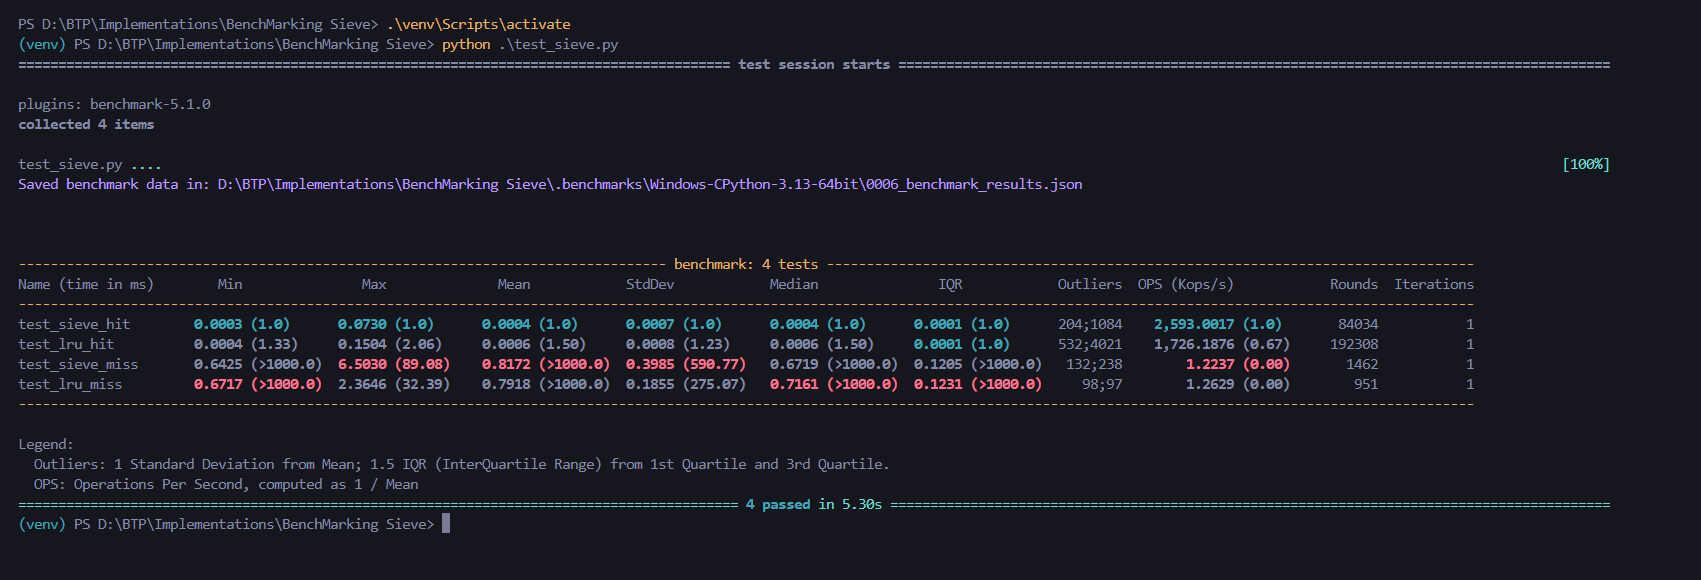
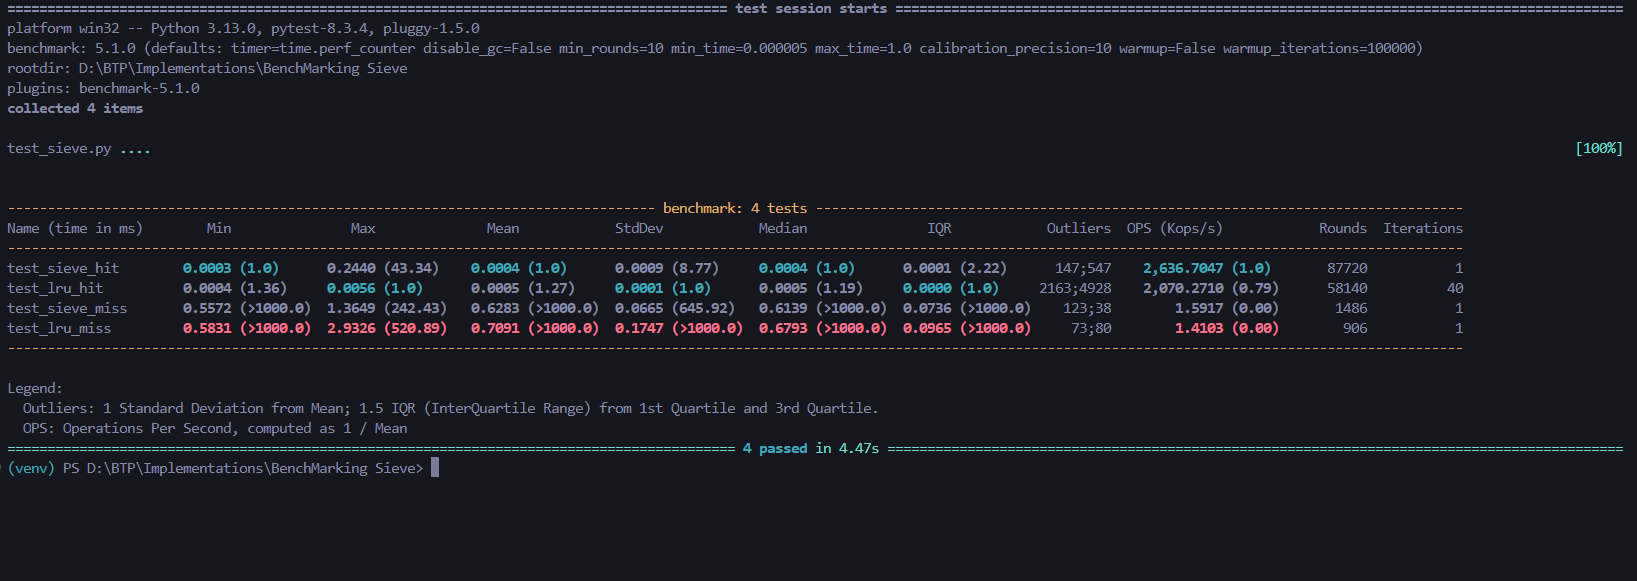
Update-Added Detailed Report

diff --git a/Readme.md b/Readme.md
@@ -9,81 +9,97 @@ This implementation introduces the SIEVE cache eviction algorithm alongside a cu
 2. **Quick Demotion:** Items can be efficiently evicted when needed.
 3. **Thread-Safety:** SIEVE does not require locks for cache hits, unlike LRU, resulting in increased throughput.
 
-### Benchmark Output
+
+### Benchmarking Overview in the Code
+
+1. **Benchmark Scenarios**:
+   - **Cache Hit**: Tests how quickly the cache returns a value for a key that is already stored in the cache.
+     - Functions:
+       - `sieve_cache_test_hit()`
+       - `lru_cache_test_hit()`
+   - **Cache Miss**: Tests how the cache handles the addition of new values (when a key is not found in the cache).
+     - Functions:
+       - `sieve_cache_test_miss()`
+       - `lru_cache_test_miss()`
+
+2. **Using `benchmark`**:
+   - `benchmark` is a fixture provided by `pytest-benchmark`. It runs the specified test function multiple times and measures:
+     - Execution time.
+     - Statistical metrics like mean, median, and standard deviation of runtimes.
+   - The results are saved for analysis using `--benchmark-save=benchmark_results`.
+
+3. **How It Works**:
+   - The `benchmark` fixture runs the corresponding test function multiple times under controlled conditions.
+   - For example, in `test_sieve_hit`, it repeatedly calls `sieve_cache_test_hit`, which simply retrieves a cached value.
+   - Similarly, `test_sieve_miss` tests the behavior when many new values are added to the cache (forcing evictions and insertions).
+
+---
+
+# Benchmark Report
+
+### Summary
+This report provides a detailed analysis of the benchmark results for four test cases. The benchmark metrics include **execution time** (minimum, maximum, mean, median), **standard deviation**, **interquartile range (IQR)**, **outliers**, **operations per second (OPS)**, and the **number of rounds and iterations** executed.
+
+---
+
+## Benchmark Results
+
 ![Benchmark Results](Images/image.png)
 
-### Analysis of Benchmark Results
+---
 
-The benchmark results provide insights into the performance of the SIEVE and LRU cache eviction algorithms:
+## **Legend**
 
-1. **Cache Hits**
-   - **SIEVE**: The SIEVE algorithm shows a lower mean time (0.0004 ms) compared to LRU (0.0006 ms) for cache hits. This indicates that SIEVE is slightly faster in retrieving items from the cache, likely due to its lazy promotion feature, which reduces unnecessary operations.
-   - **LRU**: While slightly slower, LRU's performance is still competitive. However, the higher standard deviation (0.0003 ms) suggests more variability in response time compared to SIEVE (0.0001 ms).
+### **1. Min, Max, and Mean (Time in ms)**
+- **Min:** Minimum time taken for a single iteration of the test.
+- **Max:** Maximum time taken for a single iteration of the test.
+- **Mean:** Average time taken for a single iteration of the test.
 
-2. **Cache Misses**
-   - **SIEVE**: For cache misses, SIEVE has a mean time of 0.6657 ms, which is slightly better than LRU's 0.6837 ms. This efficiency is attributed to SIEVE's quick demotion strategy that efficiently identifies and evicts unvisited items.
-   - **LRU**: The LRU algorithm, while slightly slower, is still a robust choice for scenarios where cache misses are less frequent.
+### **2. StdDev (Standard Deviation)**
+- Shows the variation in execution time for a test. A higher value indicates more inconsistency.
 
-3. **Operations Per Second (OPS)**
-   - The OPS metric further highlights SIEVE's advantage in both cache hits and misses, with higher operations per second compared to LRU.
+### **3. Median**
+- The middle value of all iterations, indicating a typical execution time.
 
-### Conclusion
+### **4. IQR (Interquartile Range)**
+- Measures the range within which the central 50% of the test execution times lie.
 
-The SIEVE algorithm demonstrates superior performance in both cache hits and misses, making it a more efficient choice for scenarios requiring high throughput and low latency. Its design optimizes cache operations by minimizing unnecessary promotions and efficiently handling evictions. LRU, while slightly less performant, remains a viable option, especially in environments where its simplicity and predictability are preferred.
+### **5. Outliers**
+- Counts of test executions that fall outside the normal range. Shown in two formats:
+  - Left: Low outliers
+  - Right: High outliers
+
+### **6. OPS (Kops/s - Operations Per Second)**
+- Indicates the number of operations the test can execute per second. Higher is better.
+
+### **7. Rounds**
+- The total number of rounds the test was executed.
+
+### **8. Iterations**
+- Number of iterations performed per round. A higher iteration count can give more accurate benchmarking results.
 
 ---
 
-## Code Details
+## **Key Observations**
 
-### SIEVE Cache Implementation
-The `sieve_cache` decorator uses the SIEVE algorithm to optimize cache performance. The cache maintains a doubly linked list to track access patterns and efficiently evict entries.
+1. **Fastest Test:**
+   - **`test_sieve_hit`** achieved the highest operations per second (**2,636.7047 Kops/s**) and had the lowest mean execution time (**0.0004 ms**).
 
-#### Key Highlights
-- **Lazy Promotion:** Items are marked as visited without altering their positions.
-- **Quick Demotion:** A traversal identifies unvisited items for eviction.
-- **Thread-Safe:** Ensures safe concurrent access with `_thread.RLock`.
+2. **Slowest Test:**
+   - **`test_lru_miss`** had the lowest operations per second (**1.4103 Kops/s**) and the highest mean execution time (**0.7091 ms**).
 
-### LRU Cache Implementation
-The custom `lru_cache` decorator uses a circular doubly linked list to implement the traditional LRU cache eviction policy.
+3. **Hit vs Miss Performance:**
+   - **Hit cases** (both `test_sieve_hit` and `test_lru_hit`) performed significantly faster than **miss cases** (`test_sieve_miss` and `test_lru_miss`), indicating efficient cache hits.
 
-#### Key Highlights
-- **Promotion on Access:** Recently accessed items are moved to the front.
-- **Eviction Policy:** Oldest items are evicted when the cache reaches capacity.
+4. **Outlier Variations:**
+   - `test_lru_hit` shows a high number of outliers (**2,163 low; 4,928 high**), suggesting variability in runtime performance.
+   - Miss cases (`test_sieve_miss` and `test_lru_miss`) also exhibit significant outliers, indicating potential inconsistencies during cache misses.
 
----
-
-## Functions
-
-### SIEVE Cache Functions
-1. **`sieve_cache(maxsize=128):`**
-   - A decorator for caching functions with the SIEVE eviction policy.
-   - **Arguments:** `maxsize` (default=128) determines the maximum cache size.
-
-2. **`_sieve_wrapper(user_func, maxsize):`**
-   - Core function implementing the SIEVE cache logic.
-
-### LRU Cache Functions
-1. **`lru_cache(maxsize=128):`**
-   - A decorator for caching functions with the LRU eviction policy.
-   - **Arguments:** `maxsize` (default=128) determines the maximum cache size.
-
-2. **`_my_lru_wrapper(user_func, maxsize):`**
-   - Core function implementing the LRU cache logic.
+5. **Standard Deviation:**
+   - `test_lru_miss` had the highest standard deviation (**0.1747 ms**), reflecting variability and potential inefficiencies during execution.
 
 ---
 
-## Benchmarking
-The benchmarking tests measure the performance of cache hits and misses for both SIEVE and LRU implementations. `pytest-benchmark` is used for this purpose.
-
-
-### Benchmarking Functions
-1. **SIEVE Tests**
-   - **`sieve_cache_test_hit:`** Tests cache hits for SIEVE.
-   - **`sieve_cache_test_miss:`** Tests cache misses for SIEVE.
-
-2. **LRU Tests**
-   - **`lru_cache_test_hit:`** Tests cache hits for LRU.
-   - **`lru_cache_test_miss:`** Tests cache misses for LRU.
 
 ### Installation
 Before running the benchmarks, ensure you have the necessary dependencies installed:
@@ -95,7 +111,7 @@ pip install pytest pytest-benchmark
 ### Command to Run Benchmarks
 Run the following command to execute benchmarks and save results:
 ```bash
-pytest --benchmark-save=benchmark_results
+pytest test_sieve.py --benchmark-min-rounds=10
 ```
 
 ---
